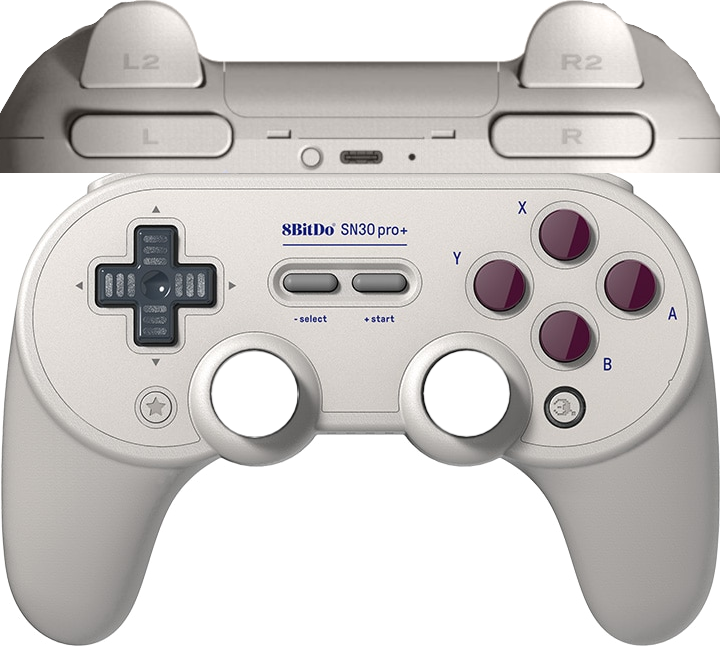
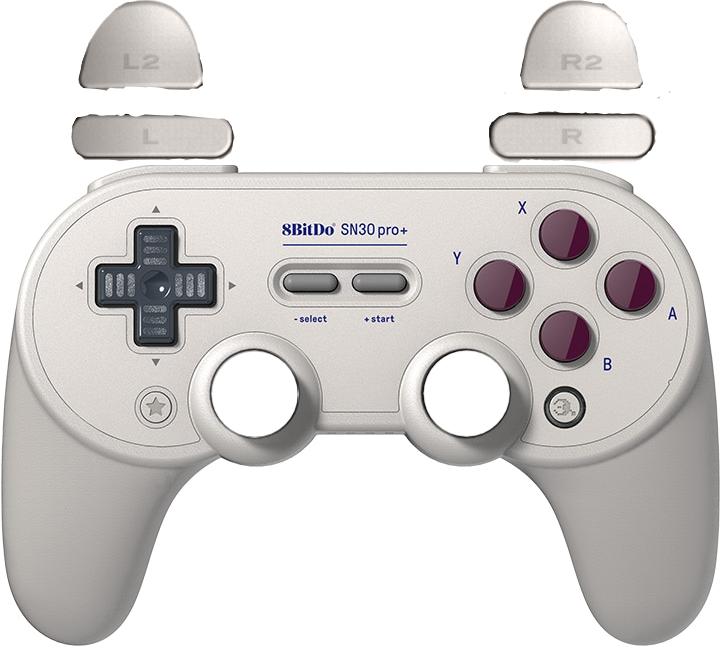
Add files via upload

Changed region(s): [[0.0, 0.0, 1.0, 0.2769]]

diff --git a/sn30.css b/sn30.css
@@ -11,23 +11,24 @@
     display: none;
 }
 .custom .triggers{ 
-    width: 526px;
-    height: 65px;
+    width: 567px;
+    height: 91px;
     position: absolute;
-    left: 99px;
-    top: 10px;
+    left: 77px;
 }
 .custom .trigger{
-    width:86px;
-    height:65px;
-    background: url(pink.png);
+    height:91px;
+    background: url(triggers.png);
     opacity: 0;
 }
 
-.custom .trigger.left{ 
+.custom .trigger.left{
+    width: 128px; 
     float: left;
 }
 .custom .trigger.right{
+    width: 125px;
+    background-position: -128px 0;
     float: right;
 }
 
